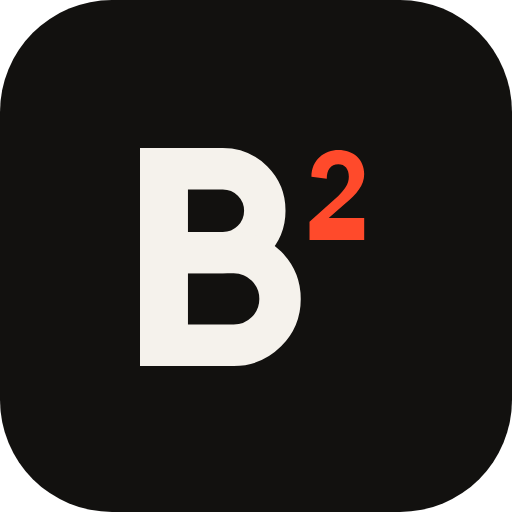
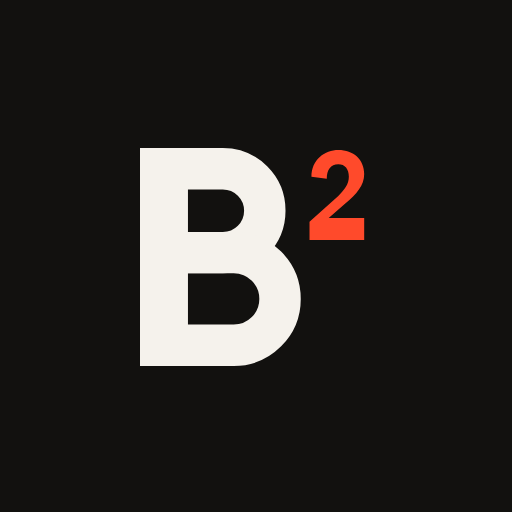
Retours vidéo lot F : écran de lancement à chaque ouverture (sans barre simulée, 0,5 s minimum), icônes 180/192/512 régénérées en plein cadre (180 et 192 étaient corrompues), liens d'icône versionnés, service worker sl-v33
Claude-Session: https://claude.ai/code/session_01MR21p3e2cBiRvrmiXcwruX

diff --git a/src/app.html b/src/app.html
@@ -713,13 +713,11 @@ body:has(.vbar) .restpill{bottom:calc(env(safe-area-inset-bottom,0px) + 84px)}
 .netbar.off{background:#2B2410}.netbar.err{background:#32140D}
 .netbar .link{min-height:44px;padding:0 4px;color:var(--chalk);font-weight:700}
 /* ÉCRAN DE LANCEMENT (v3, planche Identité) : logo, devise, barre de chargement sans progression simulée */
-.launch{min-height:calc(100dvh - 180px);display:flex;flex-direction:column;align-items:center;justify-content:center;gap:18px;text-align:center}
-.launch b{font:800 26px var(--f-show);letter-spacing:.06em;color:var(--chalk)}
-.launch .lbar{display:block;width:170px;height:4px;border-radius:2px;background:var(--deck2);overflow:hidden;margin-top:56px}
-.launch .lbar u{display:block;width:40%;height:100%;border-radius:2px;background:var(--acc);animation:lbar 1.3s var(--ease) infinite}
-.launch p{max-width:260px;font-size:12.5px;line-height:1.4;color:var(--faint);margin-top:10px}
-body:has(.launch) .topbar,body:has(.launch) nav.tabs,body:has(.launch) #subseance{visibility:hidden}
-@keyframes lbar{0%{transform:translateX(-100%)}100%{transform:translateX(260%)}}
+/* Lancement (retours vidéo, lot F) : écran plein à chaque ouverture, sans barre de progression simulée. Il part quand les données sont là (0,5 s au minimum). */
+.splash{position:fixed;inset:0;z-index:300;background:var(--floor);display:flex;flex-direction:column;align-items:center;justify-content:center;gap:22px;text-align:center;transition:opacity .22s var(--ease)}
+.splash.out{opacity:0;pointer-events:none}
+.splash b{font:800 26px var(--f-show);letter-spacing:.06em;color:var(--chalk)}
+.splash svg{width:120px;height:auto}
 /* SCANNER : produit trouvé (planche Corps_3) */
 .scanfull:has(.scansheet) .scanhint{display:none}.scanfull:has(.scansheet) .scanframe{opacity:.55}
 .scanpanel:has(.scansheet){margin:0;max-height:none;overflow:visible;margin-top:auto}
@@ -916,13 +914,14 @@ body:has(.launch) .topbar,body:has(.launch) nav.tabs,body:has(.launch) #subseanc
   <div class="topbar"><div class="brandmark" id="topdate"><svg class="b2m" viewBox="0 0 120 100" aria-hidden="true"><g fill="none" stroke="var(--chalk)"><line x1="11" y1="0" x2="11" y2="100" stroke-width="22"/><path d="M11 9.5H38A19.25 19.25 0 0 1 38 48H11" stroke-width="19"/><path d="M11 48H43A21.25 21.25 0 0 1 43 90.5H11" stroke-width="19"/></g><path d="M6 30C6 12 20 2 34 2C50 2 61 12 61 27C61 39 53 48 41 58L24 73H61V96H4V77L34 50C40 44 45 38 45 30C45 22 41 17 34 17C26 17 22 23 22 32Z" fill="var(--acc)" transform="translate(76 0) scale(0.44)"/></svg><h1 class="tabname" id="tabname">Séance</h1></div><button class="avatar" data-act="settings" aria-label="Réglages et synchronisation"><span id="initial">·</span><span class="dot busy" id="syncdot"></span></button></div>
   <div id="netbar" class="netbar" role="status" aria-live="polite" hidden></div>
   <div class="segc" id="subseance" role="group" aria-label="Séance" style="margin:12px 0 0"><button data-sub="home" aria-pressed="true">Aujourd'hui</button><button data-sub="seance" aria-pressed="false">Programme</button><button data-sub="histo" aria-pressed="false">Historique</button></div>
-  <section id="v-home" class="view"><div class="launch" role="status" aria-label="Chargement"><svg viewBox="0 0 120 100" width="120" aria-hidden="true"><g fill="none" stroke="var(--chalk)" stroke-linecap="butt" stroke-linejoin="miter"><line x1="11" y1="0" x2="11" y2="100" stroke-width="22"/><path d="M11 9.5H38A19.25 19.25 0 0 1 38 48H11" stroke-width="19"/><path d="M11 48H43A21.25 21.25 0 0 1 43 90.5H11" stroke-width="19"/></g><path d="M6 30C6 12 20 2 34 2C50 2 61 12 61 27C61 39 53 48 41 58L24 73H61V96H4V77L34 50C40 44 45 38 45 30C45 22 41 17 34 17C26 17 22 23 22 32Z" fill="var(--acc)" transform="translate(76 0) scale(0.44)"/></svg><b>BE TOO STRONG</b><i class="lbar"><u></u></i></div></section>
+  <section id="v-home" class="view"></section>
   <section id="v-seance" class="view" hidden></section>
   <section id="v-histo" class="view" hidden></section>
   <section id="v-prog" class="view" hidden></section>
   <section id="v-corps" class="view" hidden></section>
   <section id="v-agenda" class="view" hidden></section>
 </main>
+<div id="splash" class="splash" role="status" aria-label="Chargement"><svg viewBox="0 0 120 100" width="120" aria-hidden="true"><g fill="none" stroke="var(--chalk)" stroke-linecap="butt" stroke-linejoin="miter"><line x1="11" y1="0" x2="11" y2="100" stroke-width="22"/><path d="M11 9.5H38A19.25 19.25 0 0 1 38 48H11" stroke-width="19"/><path d="M11 48H43A21.25 21.25 0 0 1 43 90.5H11" stroke-width="19"/></g><path d="M6 30C6 12 20 2 34 2C50 2 61 12 61 27C61 39 53 48 41 58L24 73H61V96H4V77L34 50C40 44 45 38 45 30C45 22 41 17 34 17C26 17 22 23 22 32Z" fill="var(--acc)" transform="translate(76 0) scale(0.44)"/></svg><b>BE TOO STRONG</b></div>
 <div id="layer"></div>
 <div class="toast" id="toast" role="status" aria-live="polite"></div>
 
@@ -4738,13 +4737,21 @@ document.addEventListener("visibilitychange", () => { if (document.visibilitySta
 setInterval(() => { if (document.visibilityState === "visible" && D) { flushOutbox().finally(() => { if (Date.now() - lastSync > 10 * 60000 && !live) syncAll(true); }); } }, 60000);
 function fatal(msg){ $("#v-home").innerHTML = `<div class="empty"><p>${esc(msg)}</p><button class="btn ghost sm" data-act="boot">Réessayer</button></div>`; }
 ACT.boot = () => boot();
+const SPLASH_MIN = 500, splashT0 = Date.now();
+function hideSplash(){
+  const el = document.getElementById("splash"); if (!el || el.dataset.go) return; el.dataset.go = "1";
+  setTimeout(() => { el.classList.add("out"); setTimeout(() => el.remove(), 260); }, Math.max(0, SPLASH_MIN - (Date.now() - splashT0)));
+}
+setTimeout(hideSplash, 12000);   /* filet de sécurité : l'écran de lancement ne reste jamais bloqué */
 async function boot(){
-  const cached = loadCache();
-  if (cached) { render(); autoResume(); }
-  try { mcp = window.claude ? await window.claude.use("mcp") : null; } catch(e){ mcp = null; }
-  if (!mcp) { setDot("off"); if (!cached) fatal("Ouvre cette app dans Claude (claude.ai dans Safari), connecté à ton compte, pour accéder à tes Google Sheets."); return; }
-  await flushOutbox();
-  await syncAll(true);
+  try {
+    const cached = loadCache();
+    if (cached) { render(); autoResume(); hideSplash(); }   /* données déjà sur le téléphone : l'écran de lancement dure son minimum puis laisse la place */
+    try { mcp = window.claude ? await window.claude.use("mcp") : null; } catch(e){ mcp = null; }
+    if (!mcp) { setDot("off"); if (!cached) fatal("Ouvre cette app dans Claude (claude.ai dans Safari), connecté à ton compte, pour accéder à tes Google Sheets."); return; }
+    await flushOutbox();
+    await syncAll(true);
+  } finally { hideSplash(); }   /* sans cache : il part quand la première lecture est finie (ou a échoué) */
 }
 boot();
 </script>

diff --git a/sw.js b/sw.js
@@ -4,7 +4,7 @@
      l'ancienne et l'app est prévenue (installée tout de suite si rien n'a été touché, sinon bandeau).
    - Chart.js, JSZip et les polices : cache d'abord.
    - Les données Google et Open Food Facts ne passent jamais par ce cache. */
-const V = "sl-v32";
+const V = "sl-v33";
 const SHELL = ["./", "index.html", "manifest.webmanifest", "icon-180.png", "icon-192.png", "icon-512.png", "aliments.json", "zxing.min.js",
   "fonts/bs.woff2", "fonts/fg.woff2", "fonts/mm.woff2"];
 /* cache:"reload" : ignore le cache HTTP du navigateur (GitHub Pages garde les fichiers 10 min). */

diff --git a/tests/e2e_v76_retours_f.py b/tests/e2e_v76_retours_f.py
@@ -1,0 +1,48 @@
+"""Retours vidéo, lot F : écran de lancement à chaque ouverture (sans barre simulée, 0,5 s minimum) et icônes valides. Test ciblé."""
+import pathlib, time, json
+from PIL import Image
+H = pathlib.Path(__file__).resolve().parent
+src = (H / "e2e.py").read_text(); exec(src[:src.index("with sync_playwright()")])
+ROOT = H.parent
+fails = []
+def check(name, cond, info=""):
+    print(("OK  " if cond else "KO  ") + name, "" if cond else info)
+    if not cond: fails.append(name)
+# --- icônes : plein cadre, fond sombre aux quatre coins, logo clair au centre (l'ancienne 180 était un coin d'image zoomé, coins blancs)
+for f, n in [("icon-180.png", 180), ("icon-192.png", 192), ("icon-512.png", 512), ("icon-maskable.png", 512)]:
+    im = Image.open(ROOT / f).convert("RGB"); w, h = im.size
+    corners = [im.getpixel(p) for p in [(0, 0), (w - 1, 0), (0, h - 1), (w - 1, h - 1)]]
+    bright = sum(1 for x in range(int(w * .3), int(w * .7), 3) for y in range(int(h * .3), int(h * .7), 3) if sum(im.getpixel((x, y))) > 600)
+    check(f"{f} : {n}×{n}, coins sombres (pas de blanc), logo clair au centre", im.size == (n, n) and all(sum(c) < 120 for c in corners) and bright > 40, (im.size, corners, bright))
+man = json.loads((ROOT / "manifest.webmanifest").read_text())
+check("manifest : icônes 192, 512 et maskable présentes", {i["src"] for i in man["icons"]} == {"icon-192.png", "icon-512.png", "icon-maskable.png"})
+html = (ROOT / "test-build.html").read_text(encoding="utf-8")
+check("apple-touch-icon pointe vers icon-180.png (versionné)", 'rel="apple-touch-icon"' in html and "icon-180.png?v=" in html)
+check("service worker : icônes dans le cache de l'app", all(x in (ROOT / "sw.js").read_text() for x in ["icon-180.png", "icon-192.png", "icon-512.png"]))
+# --- lancement
+with sync_playwright() as p:
+    br = p.chromium.launch()
+    c = br.new_context(viewport={"width":390, "height":844}, device_scale_factor=2, service_workers="block"); c.route("**/*", route)
+    pg = c.new_page(); errs = []
+    pg.on("pageerror", lambda e: errs.append(str(e))); pg.on("console", lambda m: errs.append(m.text) if m.type == "error" else None)
+    t0 = time.time(); pg.goto("http://app.local/sl/", wait_until="commit")
+    pg.wait_for_selector("#splash", state="attached", timeout=5000)
+    check("écran de lancement présent à l'ouverture", pg.evaluate("!!document.getElementById('splash') && /BE TOO STRONG/.test(document.getElementById('splash').innerText)"))
+    check("pas de barre de progression simulée", pg.evaluate("!document.querySelector('.lbar, [role=progressbar], progress')"))
+    check("logo B² dans l'écran de lancement", pg.evaluate("!!document.querySelector('#splash svg')"))
+    pg.wait_for_selector("#splash", state="detached", timeout=15000); dt = time.time() - t0
+    check("écran de lancement visible au moins 0,5 s", dt >= .5, round(dt, 2))
+    check("écran de lancement retiré ensuite (plus rien ne bloque)", pg.evaluate("!document.getElementById('splash')"))
+    pg.wait_for_timeout(300)
+    check("aucune erreur console", not errs, errs[:3])
+    # deuxième ouverture : données gardées sur le téléphone → l'écran s'affiche de nouveau, 0,5 s minimum
+    pg.click("[data-act=obLogin]"); pg.wait_for_timeout(1200)
+    pg.fill("#oblink", f"https://docs.google.com/spreadsheets/d/{APP}/edit"); pg.click("[data-act=obLink]")
+    pg.wait_for_function("typeof D !== 'undefined' && D && S.length > 0 && lastSync > 0", timeout=20000); pg.wait_for_timeout(1500)
+    t1 = time.time(); pg.reload(wait_until="commit"); pg.wait_for_selector("#splash", state="attached", timeout=5000)
+    check("réouverture : l'écran de lancement revient", True)
+    pg.wait_for_selector("#splash", state="detached", timeout=15000); dt2 = time.time() - t1
+    check("réouverture : visible au moins 0,5 s", dt2 >= .5, round(dt2, 2))
+    check("réouverture : l'app s'affiche avec ses données", pg.evaluate("typeof D !== 'undefined' && !!D && !!document.querySelector('#v-home') && document.querySelector('#v-home').innerText.length > 20"))
+    br.close()
+print("ÉCHECS :", fails)

diff --git a/tests/e2e_v72_corps.py b/tests/e2e_v72_corps.py
@@ -24,7 +24,8 @@ with sync_playwright() as p:
     pg.click("[data-act=wOpen]"); pg.wait_for_timeout(400)
     check("Poids : feuille d'ajout (saisie, date, enregistrer)", ev("!!document.querySelector('.sheet #cw') && !!document.querySelector('.sheet #cwd') && !!document.querySelector('.sheet [data-act=saveW]')"))
     pg.click(".scrim"); pg.wait_for_timeout(300)
-    check("Poids : import replié", ev("!!document.querySelector('#v-corps details.more') && !document.querySelector('#v-corps details.more').open"))
+    check("Poids : plus d'import dans l'écran (déplacé en Réglages)", ev("!document.querySelector('#v-corps #imp') && !/Importer un historique/.test(document.querySelector('#v-corps').innerText)"))
+    check("Poids : 7 pesées au plus, « Voir toutes les pesées » au-delà", ev("document.querySelectorAll('#v-corps .vrow').length") <= 7 and ev("!!document.querySelector('#v-corps [data-act=wAll]')"))
     check("Poids : Dernières pesées", "dernières pesées" in T())
     check("Poids : pas de undefined/NaN", not __import__("re").search(r"undefined|NaN", T()))
     pg.screenshot(path="/tmp/corps-poids.png")

diff --git a/tools/build.py b/tools/build.py
@@ -33,7 +33,7 @@ head = """<!doctype html>
 <meta name="sl-build" content="__BUILD__">
 <meta name="description" content="B2Strong : le carnet des athlètes de force. Records, total, points IPF GL et RIS, prog du coach, poids de corps et compétitions.">
 <link rel="manifest" href="manifest.webmanifest">
-<link rel="apple-touch-icon" href="icon-180.png"><link rel="icon" type="image/png" href="icon-192.png">
+<link rel="apple-touch-icon" sizes="180x180" href="icon-180.png?v=b2"><link rel="icon" type="image/png" sizes="192x192" href="icon-192.png?v=b2">
 <link rel="preconnect" href="https://sheets.googleapis.com">
 """
 rep('<meta name="claude:viewport-fit-sides" content="cover">\n', "")
